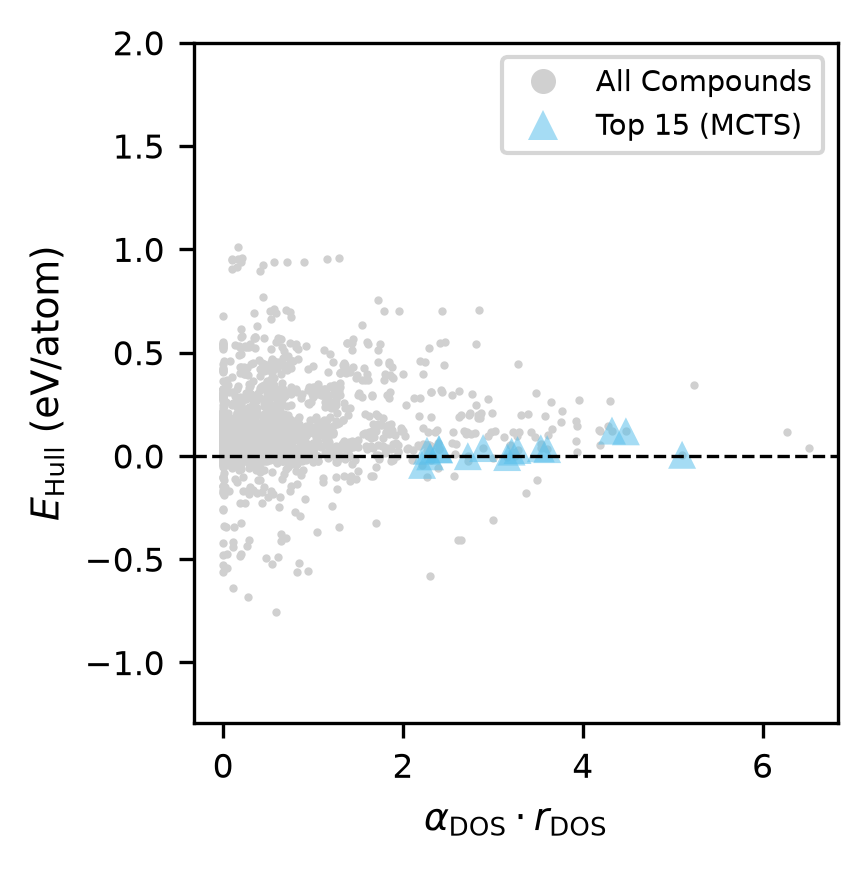
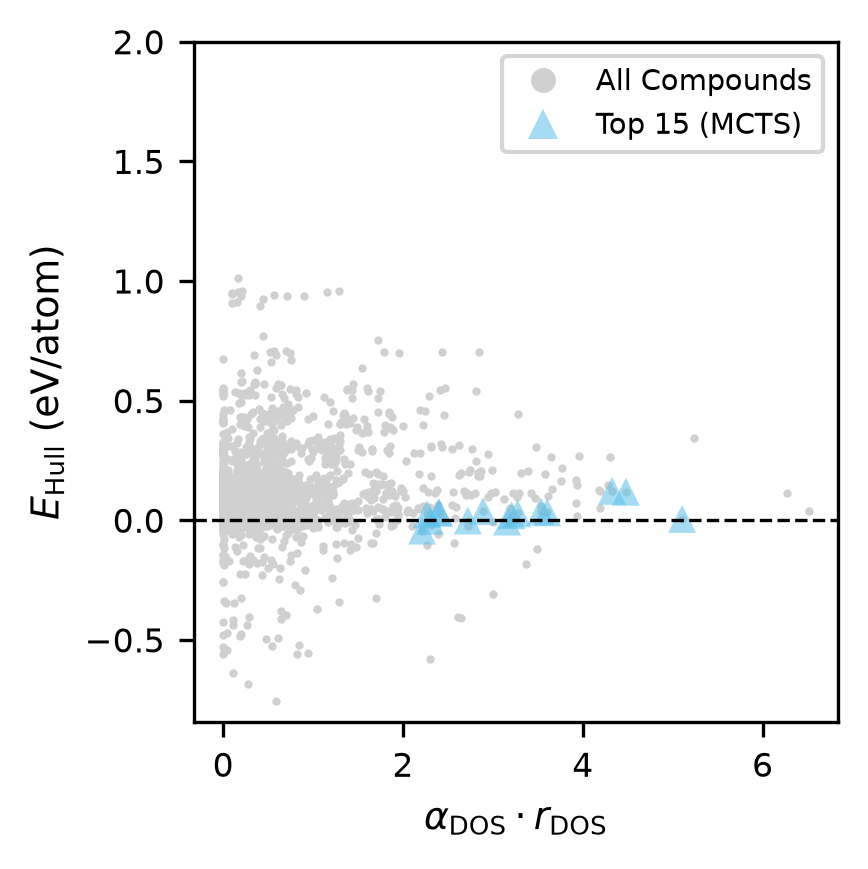
Added f-block figure

diff --git a/analysis/ehull_rdos_lanthanide_u_study_max_undiscounted/generate_figures.py b/analysis/ehull_rdos_lanthanide_u_study_max_undiscounted/generate_figures.py
@@ -79,8 +79,11 @@ def _lookup_dos(name: str, dos_rewards: dict) -> float:
     return 0.0
 
 
+SENTINEL_EHULL = 9.9  # compounds with e_above_hull >= this have missing MP data
+
+
 def load_design_space(repo_root: Path, dos_rewards: dict) -> pd.DataFrame:
-    """Load all 1,702 lanthanide+U compounds with composite scores."""
+    """Load valid lanthanide+U compounds (excludes sentinel e_above_hull >= 9.9)."""
     mace_csv = repo_root / 'high_throughput_mace_results.full.csv'
     df = pd.read_csv(mace_csv)
     if 'name' not in df.columns and 'formula' in df.columns:
@@ -88,6 +91,7 @@ def load_design_space(repo_root: Path, dos_rewards: dict) -> pd.DataFrame:
     df['re_elem'] = df['name'].apply(
         lambda n: next((e for e in _parse_elements(n) if e in LANTHANIDES_U), None))
     df = df[df['re_elem'].notna()].copy()
+    df = df[df['e_above_hull'] < SENTINEL_EHULL].copy()
     df['r_DOS'] = df['name'].apply(lambda n: _lookup_dos(n, dos_rewards))
     df['ehull_reward'] = df['e_above_hull'].apply(ehull_reward)
     df['weighted_r_DOS'] = NORMALIZED_GAMMA * df['r_DOS']
@@ -205,20 +209,24 @@ def write_top15_table(df_sorted: pd.DataFrame, global_ranks: dict,
     tables_dir = out_dir / 'tables'
     tables_dir.mkdir(parents=True, exist_ok=True)
 
-    top15 = df_sorted.head(15).copy()
+    # Skip sentinel compounds (missing MP data); take first 15 valid rows.
+    valid_rows = [row for _, row in df_sorted.iterrows()
+                  if float(row.get('e_above_hull', 0.0)) < SENTINEL_EHULL][:15]
+
     eol = ' \\\\\n'
     tex_path = tables_dir / 'top15_lanthanide_u.tex'
 
     with open(tex_path, 'w') as f:
         f.write(f'% Top 15 compounds (lanthanide+U study, Yb start). gamma={NORMALIZED_GAMMA:g}.\n')
-        f.write(f'% True Rank = rank within the full {n_space}-compound lanthanide+U design space.\n')
+        f.write(f'% True Rank = rank within the {n_space}-compound lanthanide+U design space\n')
+        f.write(f'% (compounds with missing MP stability data excluded from rankings).\n')
         f.write('\\begin{tabular}{rrlrrrr}\n')
         f.write('\\toprule\n')
         f.write('MCTS Rank & True Rank & Compound & $E_{\\mathrm{Hull}}$ (eV/atom) & '
                 '$r_{E_{\\mathrm{Hull}}}$ & $\\alpha_{\\mathrm{DOS}} \\cdot r_{\\mathrm{DOS}}$ '
                 '& Composite' + eol)
         f.write('\\midrule\n')
-        for mcts_rank, (_, row) in enumerate(top15.iterrows(), start=1):
+        for mcts_rank, row in enumerate(valid_rows, start=1):
             name = row.get('name', row.get('formula', ''))
             key = _decompose(str(name))
             true_rank = global_ranks.get(key, '--')
@@ -244,7 +252,7 @@ def main():
     print('Loading DOS rewards...')
     dos_rewards = load_dos_rewards(repo_root)
 
-    print('Loading full 1,702-compound lanthanide+U design space...')
+    print('Loading lanthanide+U design space (excluding sentinel ehull compounds)...')
     design_space = load_design_space(repo_root, dos_rewards)
     print(f'  Design space: {len(design_space)} compounds')
     print(f'  Global best: {design_space.iloc[0]["name"]} (composite={design_space.iloc[0]["composite_score"]:.4f})')

diff --git a/analysis/ehull_rdos_lanthanide_u_study_max_undiscounted/tables/top15_lanthanide_u.tex b/analysis/ehull_rdos_lanthanide_u_study_max_undiscounted/tables/top15_lanthanide_u.tex
@@ -1,5 +1,6 @@
 % Top 15 compounds (lanthanide+U study, Yb start). gamma=0.00039743.
-% True Rank = rank within the full 1702-compound lanthanide+U design space.
+% True Rank = rank within the 1620-compound lanthanide+U design space
+% (compounds with missing MP stability data excluded from rankings).
 \begin{tabular}{rrlrrrr}
 \toprule
 MCTS Rank & True Rank & Compound & $E_{\mathrm{Hull}}$ (eV/atom) & $r_{E_{\mathrm{Hull}}}$ & $\alpha_{\mathrm{DOS}} \cdot r_{\mathrm{DOS}}$ & Composite \\
@@ -9,15 +10,15 @@ MCTS Rank & True Rank & Compound & $E_{\mathrm{Hull}}$ (eV/atom) & $r_{E_{\mathr
 3 & 9 & GdNi$_{6}$Sn$_{6}$ & 0.0284 & 0.9888 & 3.2746 & 4.2634 \\
 4 & 12 & GdCu$_{6}$Sn$_{6}$ & 0.0207 & 0.9982 & 3.2088 & 4.2070 \\
 5 & 13 & ErFe$_{6}$Ge$_{6}$ & -0.0059 & 1.0000 & 3.1592 & 4.1592 \\
-6 & 2 & YbCu$_{6}$Pb$_{6}$ & 10.0000 & -1.0000 & 5.1051 & 4.1051 \\
-7 & 17 & TmCu$_{6}$Sn$_{6}$ & 0.0378 & 0.8991 & 2.8916 & 3.7907 \\
-8 & 19 & HoFe$_{6}$Sn$_{6}$ & -0.0015 & 1.0000 & 2.7218 & 3.7218 \\
-9 & 24 & HoCu$_{6}$Pb$_{6}$ & 0.1188 & -1.0000 & 4.4800 & 3.4800 \\
-10 & 26 & TbNi$_{6}$Ge$_{6}$ & 0.0312 & 0.9783 & 2.4037 & 3.3820 \\
-11 & 27 & LuNi$_{6}$Sn$_{6}$ & 0.0327 & 0.9689 & 2.3982 & 3.3671 \\
-12 & 28 & ErCu$_{6}$Pb$_{6}$ & 0.1224 & -1.0000 & 4.3254 & 3.3254 \\
-13 & 31 & HoCo$_{6}$Sn$_{6}$ & -0.0023 & 1.0000 & 2.3027 & 3.3027 \\
-14 & 35 & DyNi$_{6}$Ge$_{6}$ & 0.0248 & 0.9952 & 2.2675 & 3.2628 \\
-15 & 36 & GdFe$_{6}$Ge$_{6}$ & -0.0437 & 1.0000 & 2.2129 & 3.2129 \\
+6 & 17 & TmCu$_{6}$Sn$_{6}$ & 0.0378 & 0.8991 & 2.8916 & 3.7907 \\
+7 & 19 & HoFe$_{6}$Sn$_{6}$ & -0.0015 & 1.0000 & 2.7218 & 3.7218 \\
+8 & 24 & HoCu$_{6}$Pb$_{6}$ & 0.1188 & -1.0000 & 4.4800 & 3.4800 \\
+9 & 26 & TbNi$_{6}$Ge$_{6}$ & 0.0312 & 0.9783 & 2.4037 & 3.3820 \\
+10 & 27 & LuNi$_{6}$Sn$_{6}$ & 0.0327 & 0.9689 & 2.3982 & 3.3671 \\
+11 & 28 & ErCu$_{6}$Pb$_{6}$ & 0.1224 & -1.0000 & 4.3254 & 3.3254 \\
+12 & 31 & HoCo$_{6}$Sn$_{6}$ & -0.0023 & 1.0000 & 2.3027 & 3.3027 \\
+13 & 35 & DyNi$_{6}$Ge$_{6}$ & 0.0248 & 0.9952 & 2.2675 & 3.2628 \\
+14 & 36 & GdFe$_{6}$Ge$_{6}$ & -0.0437 & 1.0000 & 2.2129 & 3.2129 \\
+15 & 37 & GdCu$_{6}$Pb$_{6}$ & 0.1200 & -1.0000 & 4.1917 & 3.1917 \\
 \bottomrule
 \end{tabular}
